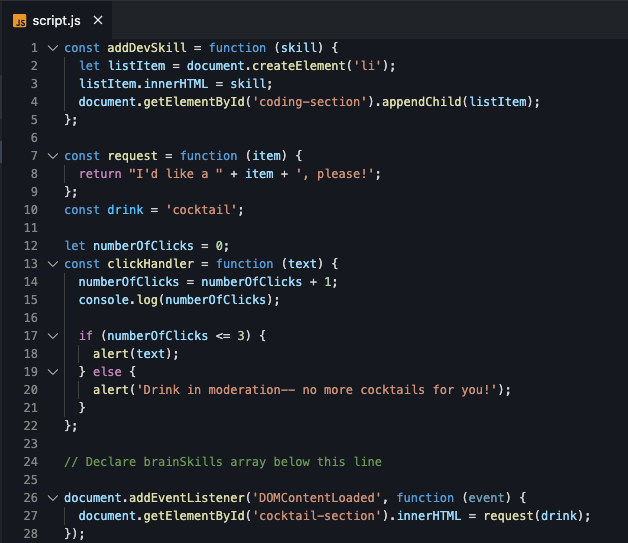
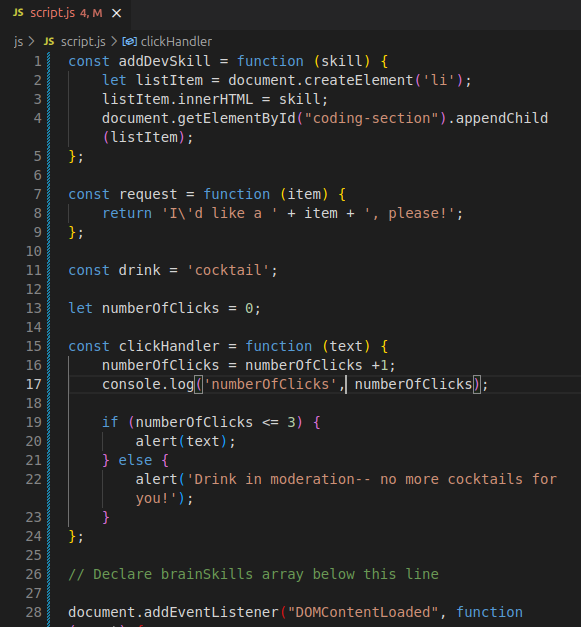
more changes through function page (#134)
* Changes Nessa suggested.

* More changes through function page.

Changed region(s): [[0.0, 0.0, 0.9604, 1.0], [0.3718, 0.825, 0.6196, 0.8545], [0.6506, 0.3241, 0.8055, 0.3536]]

diff --git a/docs/javascript/2-function/README.md b/docs/javascript/2-function/README.md
@@ -116,8 +116,9 @@ In this section, we will write our own functions in JavaScript by using conditio
    };
 
     const <verb> = function (item) {
-    return 'I\'d like a ' + item + ', please!';
+      return 'I\'d like a ' + item + ', please!';
     };
+    
     const <noun> = 'cocktail';
 
     const clickHandler = function (text) {
@@ -147,7 +148,7 @@ Let's get coding! We'll call a function and keep track of click events.
 2. Search for **&lt;noun>** and **&lt;verb>** and replace the variables. Save the file and look at the web page in Chrome. The lavender button now has the text "I'd like a cocktail please!", but we want it do something when we click on it.
 
 > [!TIP]
-> If you want to wrap the text in your Codespaces IDE, you can use Alt-z on Windows, or Cmd-z on a Mac.
+> If you want to wrap the text in your Codespaces IDE, you can use Alt-z on Windows, or Opt-z on a Mac.
 
 3. It's easier to understand what's going on if we have visual indications of our work. Browsers have a built-in function to display alert messages. Let's display an alert message with the word "click" inside of it. Find the `clickHandler` function in _script.js_ and add `alert('click');` inside the function (between the curly braces). The `clickHandler` function should look like this:
 
@@ -229,7 +230,7 @@ As applications grow, we need ways to troubleshoot code. We'll learn the basics 
 > [!INFO]
 > Notice there are no quotation marks. This now references the variable named `text`, not the string "text". Try adding quotation marks and interact with the button in Chrome to see the difference.
 
-2. We still want to see the button click counter for troubleshooting purposes. We can log the number of clicks to the console. Add `console.log(numberOfClicks);` right after incrementing the clicks in the `clickHandler` function.
+2. We still want to see the button click counter for troubleshooting purposes. We can log the number of clicks to the console. Add `console.log('numberOfClicks', numberOfClicks);` right after incrementing the clicks in the `clickHandler` function.
 
 3. Make sure your project is opened in a new tab. In the project tab, to see console logging in action, open the Chrome DevTools and click on the button. You should see the number of clicks write to the console. Leave DevTools open.
 
@@ -258,7 +259,7 @@ As applications grow, we need ways to troubleshoot code. We'll learn the basics 
 
 Business needs can be complex. We'll add conditional logic to execute different code paths.
 
-1. Inside the `clickHandler` function, add an `if` statement to only show the alert for greater than 2 button clicks by adding a conditional statement:
+1. Inside the `clickHandler` function, remove the alert(text) and add an if statement in its place. When we add a conditional statement, we cause the alert to only be shown if there are greater than 2 button clicks:
 
    {% codeblock copy %}script.js{% codeblock %}
 
@@ -269,7 +270,7 @@ Business needs can be complex. We'll add conditional logic to execute different 
    ```
 
    > [!TIP]
-   > Notice the indention on the `alert(text);`. Indent everything inside the `if` statement to make it easier to read your code. Doing so helps your brain group logical units of code together at a glance!
+   > Notice the indentation on the `alert(text);`. Indent everything inside the `if` statement to make it easier to read your code. Doing so helps your brain group logical units of code together at a glance!
 
 2. Use the `console.log` output to confirm we show the alert starting from the 3rd button click.
 
@@ -338,7 +339,7 @@ Business needs can be complex. We'll add conditional logic to execute different 
 > [!INFO]
 > We are using **Step** in this session, but debugging tools, such as Chrome DevTools, have other capabilities to make debugging easy. You can add **breakpoints** to force your web page to pause execution without adding `debugger;` statements so you can execute multiple lines of code pausing execution using the **Resume** button instead of **Step**. You can also add the `numberOfClicks` variable to a watch list so that you can see the value at a glance.
 
-12. Repeat the stepping through the code and resuming until you click for the 4th time. Does the `else` condition execute?
+12. Click the button multiple times. Repeat the stepping through the code by clicking the button and resuming until you click for the 4th time. Does the else condition execute?
 
 13. In _script.js_, remove the `debugger;` statement so we aren't interrupted in the rest of the worksheet. Feel free to add it back if you get stuck!
 

diff --git a/docs/javascript/1-js-intro/README.md b/docs/javascript/1-js-intro/README.md
@@ -79,7 +79,8 @@ Remember these are the noun or verb text surrounded by angle brackets: **&lt;nou
 > A verb is a word used to describe an action such as "make" or "become."
 
 > [!TIP]
-> If you highlight, then right-click on "<noun_1>" or any other text surrounded by angle brackets (be sure to include the angle brackets!), you will get a menu that will include an option to "Change All Occurrences." This is a good way to make sure you don't miss an occurrence of the thing you want to change.
+> If you highlight, then right-click on "&lt;noun_1>" or any other text surrounded by angle brackets (be sure to include the angle brackets!), you will get a menu that will include an option to "Change All Occurrences." This is a good way to make sure you don't miss an occurrence of the thing you want to change.
+
 
 > ![](images/change_all_occurrences.png ":class=image-border")
 
@@ -121,7 +122,7 @@ Logical operations are the basis of computer programming. Explore types, arithme
 > The value of a variable is to the right of the '=' sign.
 
 > [!HINT]
-> What is the output of "What type is the first variable" when you add quotation marks around the 5? What if you change the variable in `typeof()` on line 12 to use the variable **&lt;noun_3>** from line 6?
+> What is the output of "What type is the first variable" when you add quotation marks around the 5? What if you change the variable in `typeof` on line 12 to use the variable **&lt;noun_3>** from line 6?
 
 2.  Remove the `* 2` from line 6 then change the `>` to `==`. Make note of the comparison value in the output.
 

diff --git a/docs/javascript/setup/README.md b/docs/javascript/setup/README.md
@@ -1,6 +1,6 @@
 # Setup :id=setup
 
-Tonight we will learn the basics of applying functionality to a website using **J**ava**S**cript(**JS**).
+Tonight we will learn the basics of applying functionality to a website using **J**ava**S**cript (**JS**).
 
 Follow the instructions on this page to prepare your workspace.
 
